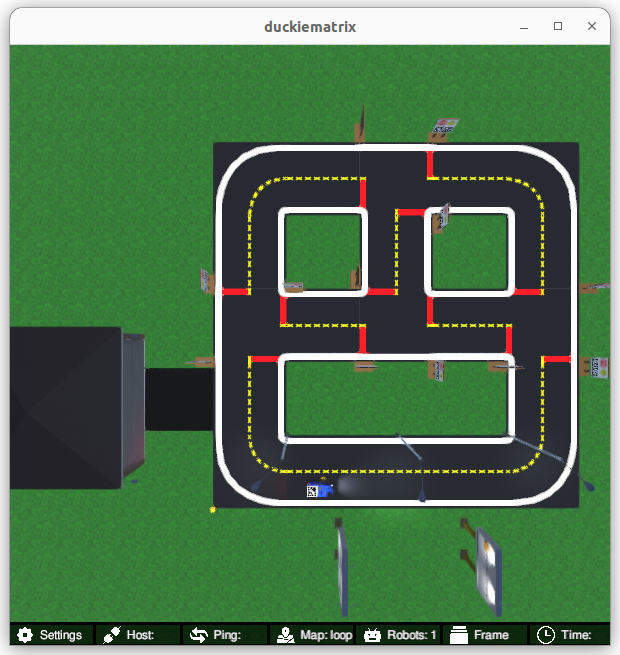
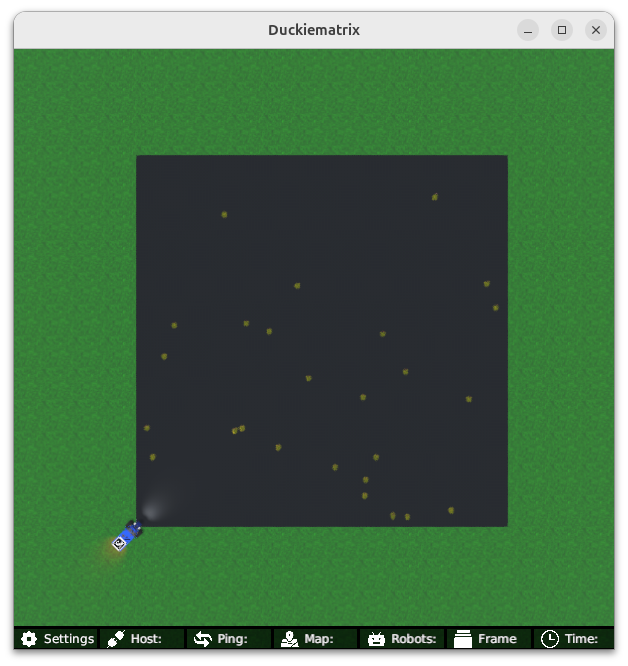
small updates

diff --git a/README.md b/README.md
@@ -11,7 +11,7 @@ ways we could conceive of doing sensorimotor control.
 
 **NOTE:** All commands below are intended to be executed from the root directory of this exercise (i.e., the directory containing this README).
 
-# 0. Clone this repository
+**(If not already done) Clone this repository**
 
 The recommended way to use this repository is to make a fork and then clone that fork. 
 
@@ -48,6 +48,10 @@ The most up-to-date branch, unless otherwise specified, is always `ente`.
 
 - 🚙 Update your Duckiebot: `dts duckiebot update ROBOTNAME`
 (where `ROBOTNAME` is the name of your Duckiebot - real or virtual.)
+
+**Note**: if your virtual robot hangs indefinitely when you try to update it, you can try to restart it with:
+
+    dts duckiebot virtual restart VBOT
 
 ## 3. Work on the exercise
 
@@ -112,15 +116,9 @@ Now that your virtual robot is ready, you can start the Duckiematrix. From this 
 dts code start_matrix
 ```
 
-You should see the Unity-based Duckiematrix simulator start up. The startup screen will look like:
-
-![duckiematrix_start](assets/duckiematrix_start.png)
-
+You should see the Unity-based Duckiematrix simulator start up.
 From here, you can click anywhere on the window and click [ENTER] to make it become active. 
-
-You can then move the duckie towards the Duckiebot with the 'w', 'a', 's', and 'd' keys, or you can move the camera angle to view the Duckiebot with the mouse.
-
-Alternatively, you can change to an overhead view by pressing 'v', which will give you a view that looks like this:
+Then you change to an overhead view by pressing 'v', which will give you a view that looks like this:
 
 ![duckiematrix_overhead](assets/duckiematrix_overhead.png)
 
